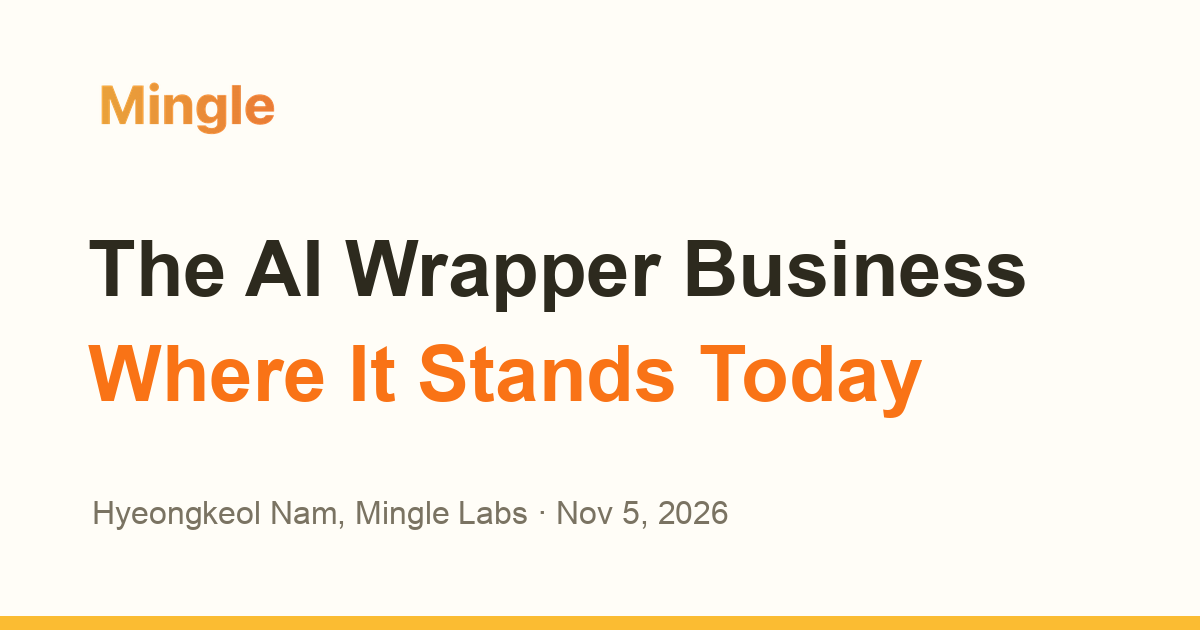
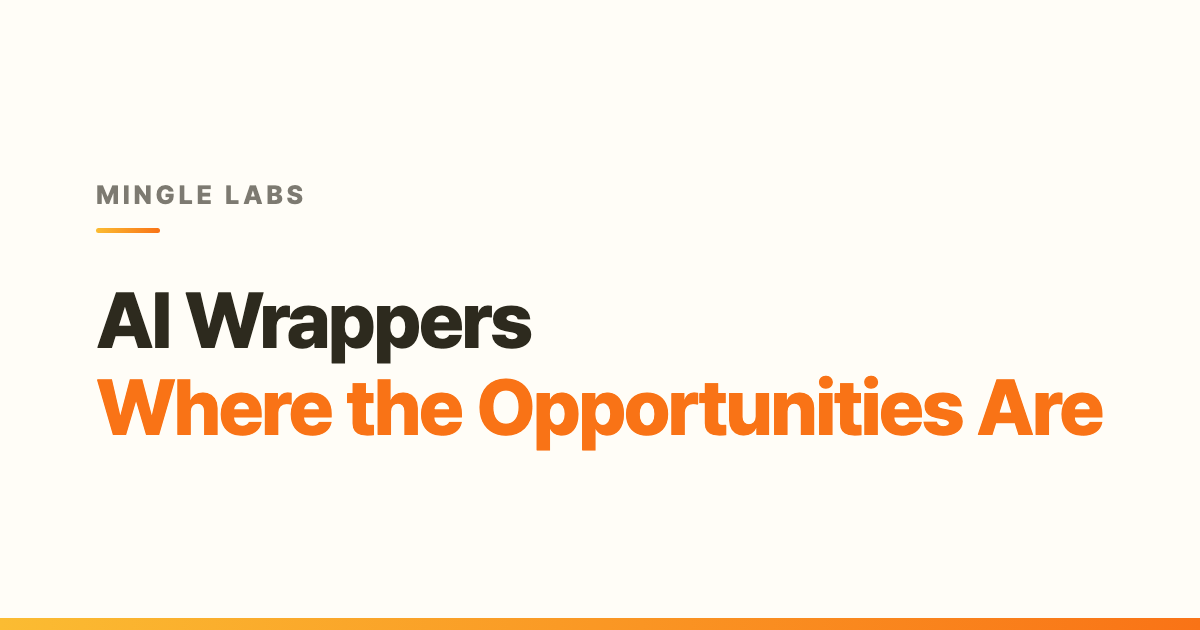
AI Beyond talk: retitle to AI Wrappers: Where the Opportunities Are, simpler OG images
Korean title becomes AI 래퍼 SW 사업 기회 살펴보기. New OG images carry only the brand
and the two-line title; ?v=2 makes link previews pick them up.

diff --git a/presentation/ai-beyond-wrapper-business.html b/presentation/ai-beyond-wrapper-business.html
@@ -16,19 +16,19 @@
 <meta content="https://minglelabs.github.io/surfers/presentation/ai-beyond-wrapper-business.html" property="og:url"/>
 <meta content="Mingle Labs" property="og:site_name"/>
 <meta content="en_US" property="og:locale"/>
-<meta content="The AI Wrapper Business: Where It Stands Today" property="og:title"/>
+<meta content="AI Wrappers: Where the Opportunities Are" property="og:title"/>
 <meta content="Case studies of AI wrapper businesses, and a strategy for what comes next." property="og:description"/>
-<meta content="https://minglelabs.github.io/surfers/presentation/assets/ai-beyond-wrapper-og-en.png" property="og:image"/>
+<meta content="https://minglelabs.github.io/surfers/presentation/assets/ai-beyond-wrapper-og-en.png?v=2" property="og:image"/>
 <meta content="Mingle Labs logo and talk title" property="og:image:alt"/>
 <meta content="image/png" property="og:image:type"/>
 <meta content="1200" property="og:image:width"/>
 <meta content="630" property="og:image:height"/>
 <meta content="summary_large_image" name="twitter:card"/>
-<meta content="The AI Wrapper Business: Where It Stands Today" name="twitter:title"/>
+<meta content="AI Wrappers: Where the Opportunities Are" name="twitter:title"/>
 <meta content="Case studies of AI wrapper businesses, and a strategy for what comes next." name="twitter:description"/>
-<meta content="https://minglelabs.github.io/surfers/presentation/assets/ai-beyond-wrapper-og-en.png" name="twitter:image"/>
+<meta content="https://minglelabs.github.io/surfers/presentation/assets/ai-beyond-wrapper-og-en.png?v=2" name="twitter:image"/>
 <meta content="Mingle Labs logo and talk title" name="twitter:image:alt"/>
-<title>The AI Wrapper Business — Mingle Labs</title>
+<title>AI Wrappers: Where the Opportunities Are — Mingle Labs</title>
 <link href="assets/mingle-favicon.png" rel="icon" type="image/png"/>
 <link href="assets/mingle-apple-touch-icon.png" rel="apple-touch-icon"/>
 <style>
@@ -7203,14 +7203,14 @@
 </head>
 <body>
 
-<main aria-label="The AI Wrapper Business: Where It Stands Today" class="deck" data-ko-aria-label="AI 래퍼 SW 산업 현황 살펴보기">
+<main aria-label="AI Wrappers: Where the Opportunities Are" class="deck" data-ko-aria-label="AI 래퍼 SW 사업 기회 살펴보기">
 <div aria-hidden="true" class="progress"><div class="progress-fill" id="progress-fill"></div></div>
 <div class="track" id="deck-track">
 <section aria-label="Cover" class="slide is-active" data-ko-aria-label="표지" data-slide="표지">
 <article class="slide-shell slide-shell--center">
 <div class="brand"><span aria-hidden="true" class="brand-mark"></span><span>AI Beyond 2026</span></div>
 <div class="copy copy--center">
-<h1 class="title title--hero title--center" data-ko='AI 래퍼 SW&lt;br/&gt;&lt;span class="title-accent"&gt;산업 현황 살펴보기&lt;/span&gt;'>The AI Wrapper Business<br/><span class="title-accent">Where It Stands Today</span></h1>
+<h1 class="title title--hero title--center" data-ko='AI 래퍼 SW&lt;br/&gt;&lt;span class="title-accent"&gt;사업 기회 살펴보기&lt;/span&gt;'>AI Wrappers<br/><span class="title-accent">Where the Opportunities Are</span></h1>
 <div class="hero-meta" data-ko="&lt;span&gt;밍글랩스 남형걸&lt;/span&gt;&lt;span&gt;26년 11월 5일&lt;/span&gt;"><span>Hyeongkeol Nam, Mingle Labs</span><span>Nov 5, 2026</span></div>
 </div>
 </article>
@@ -9165,7 +9165,7 @@
         ["alt", "aria-label", "title"].forEach((name) => {
           document.querySelectorAll(`[data-ko-${name}]`).forEach((el) => { el.setAttribute(name, el.getAttribute(`data-ko-${name}`)); });
         });
-        document.title = "AI 래퍼 SW 산업 현황 살펴보기 — 밍글랩스";
+        document.title = "AI 래퍼 SW 사업 기회 살펴보기 — 밍글랩스";
       })();
     </script>
     <script>
